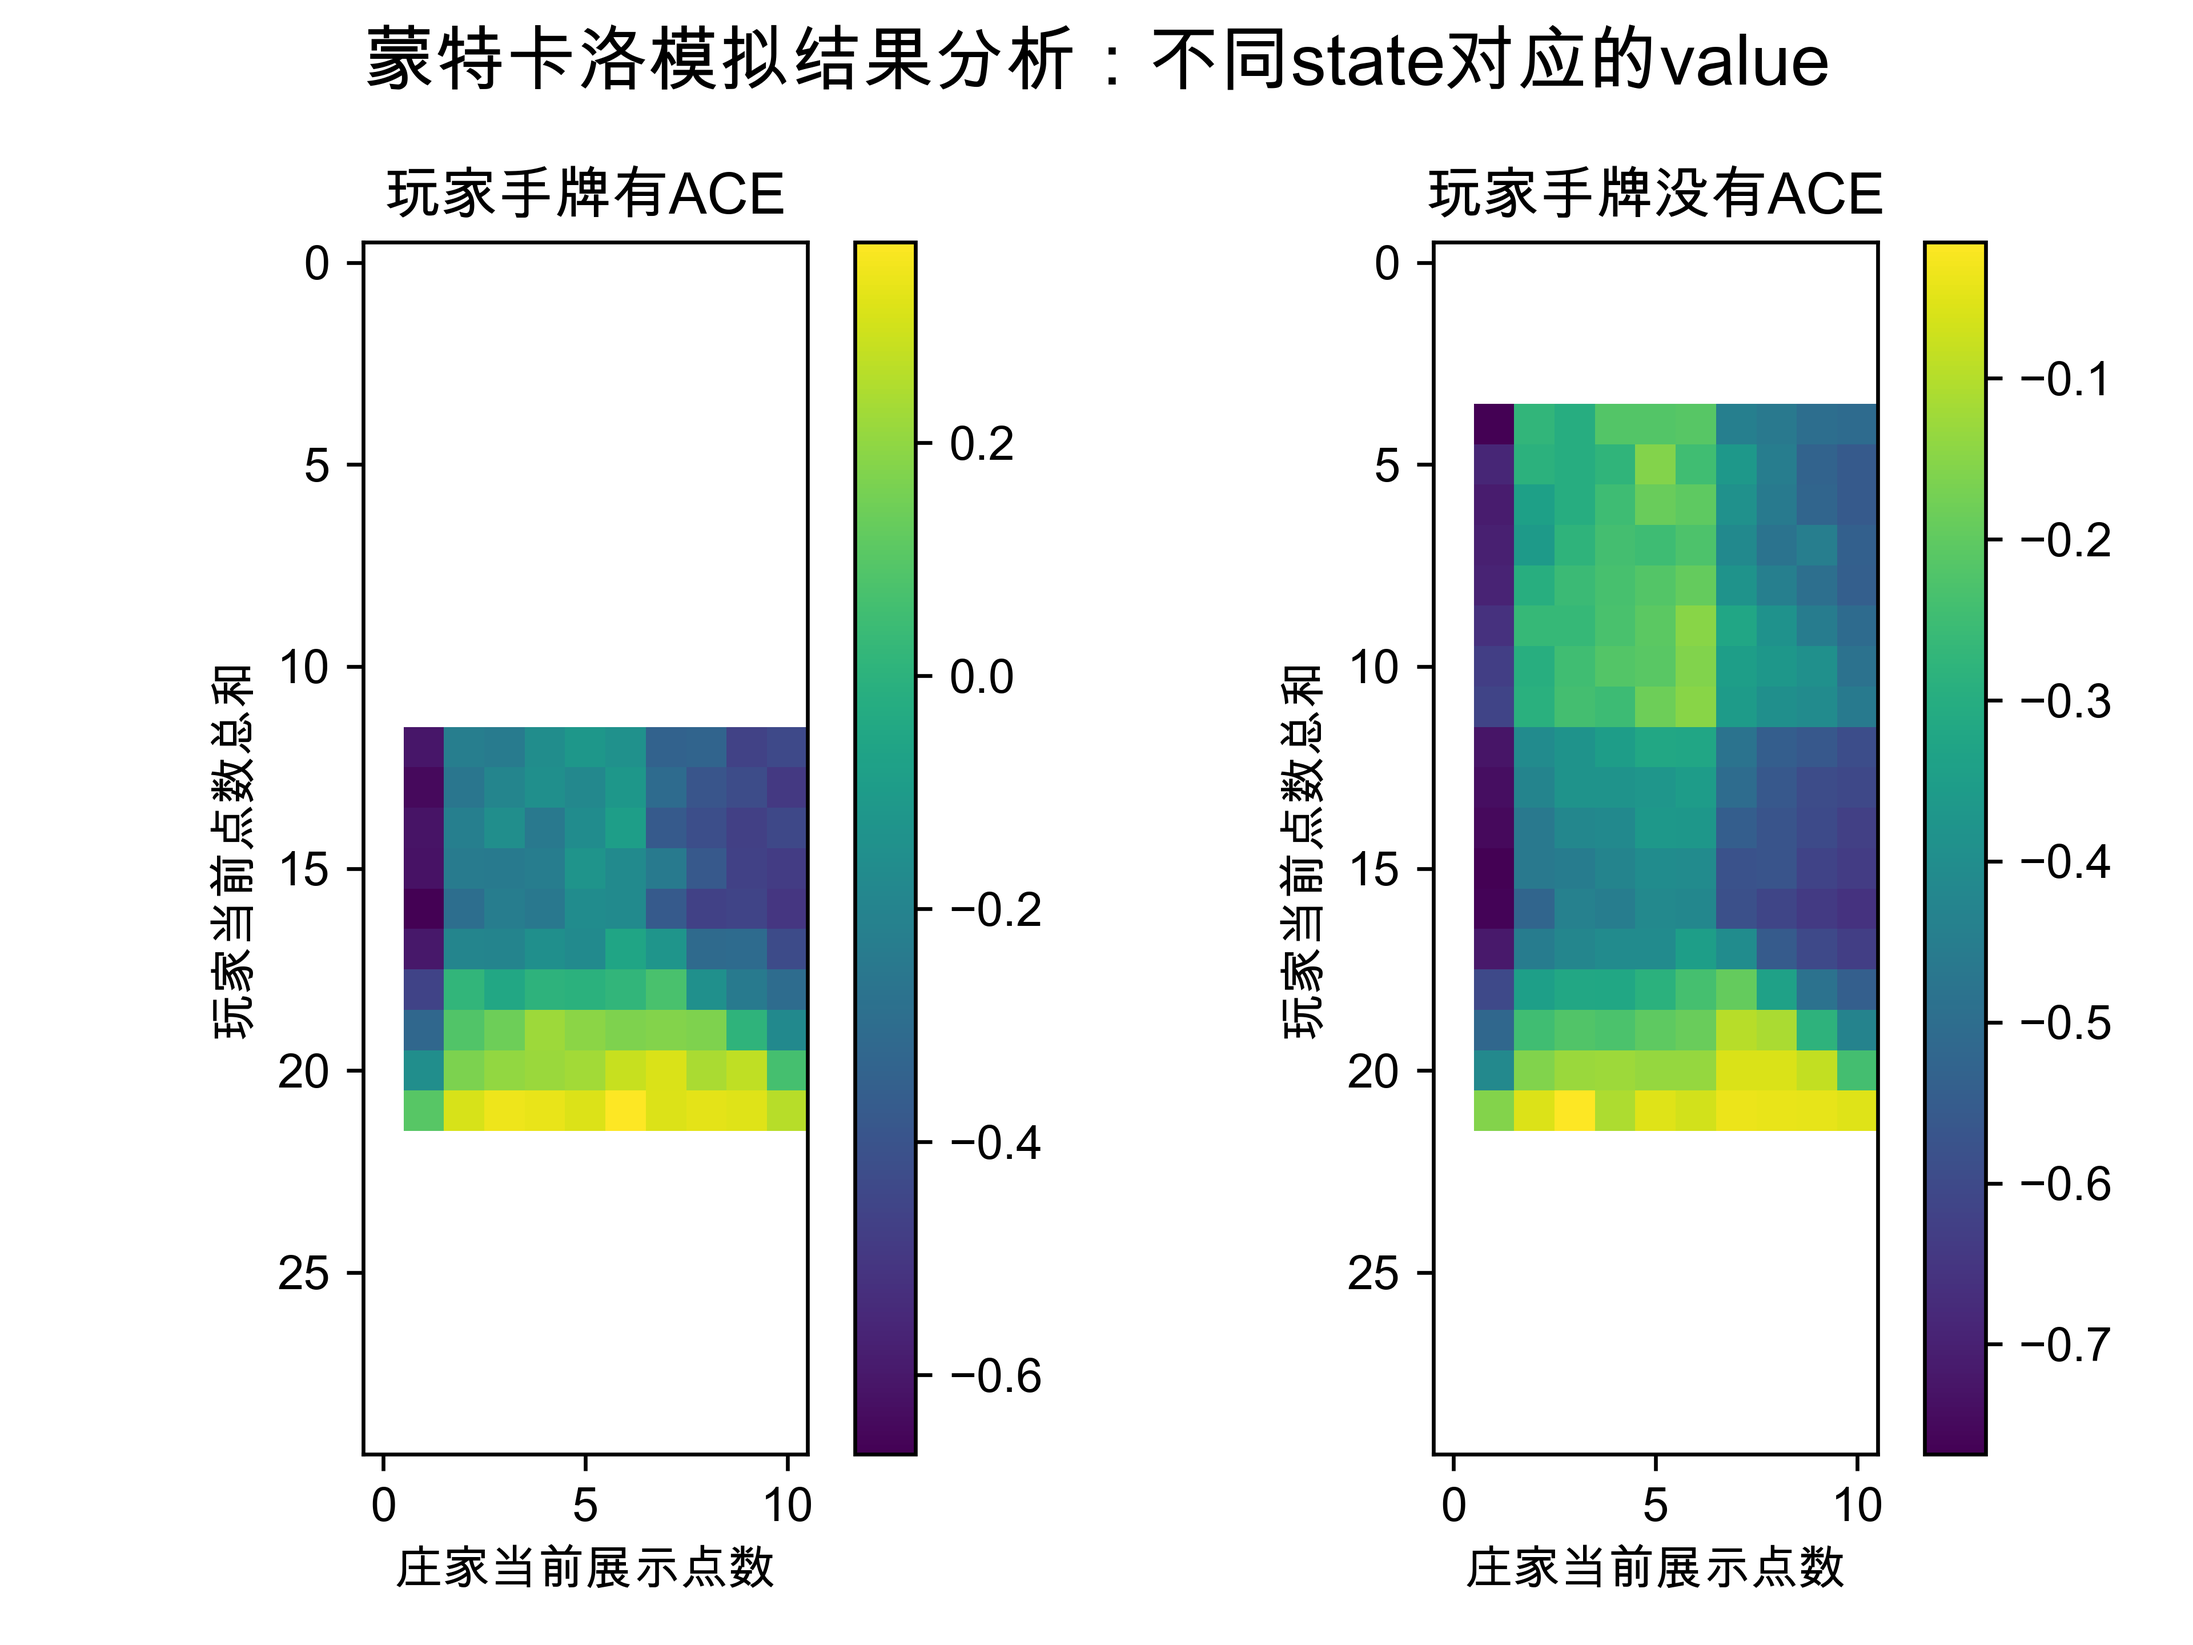
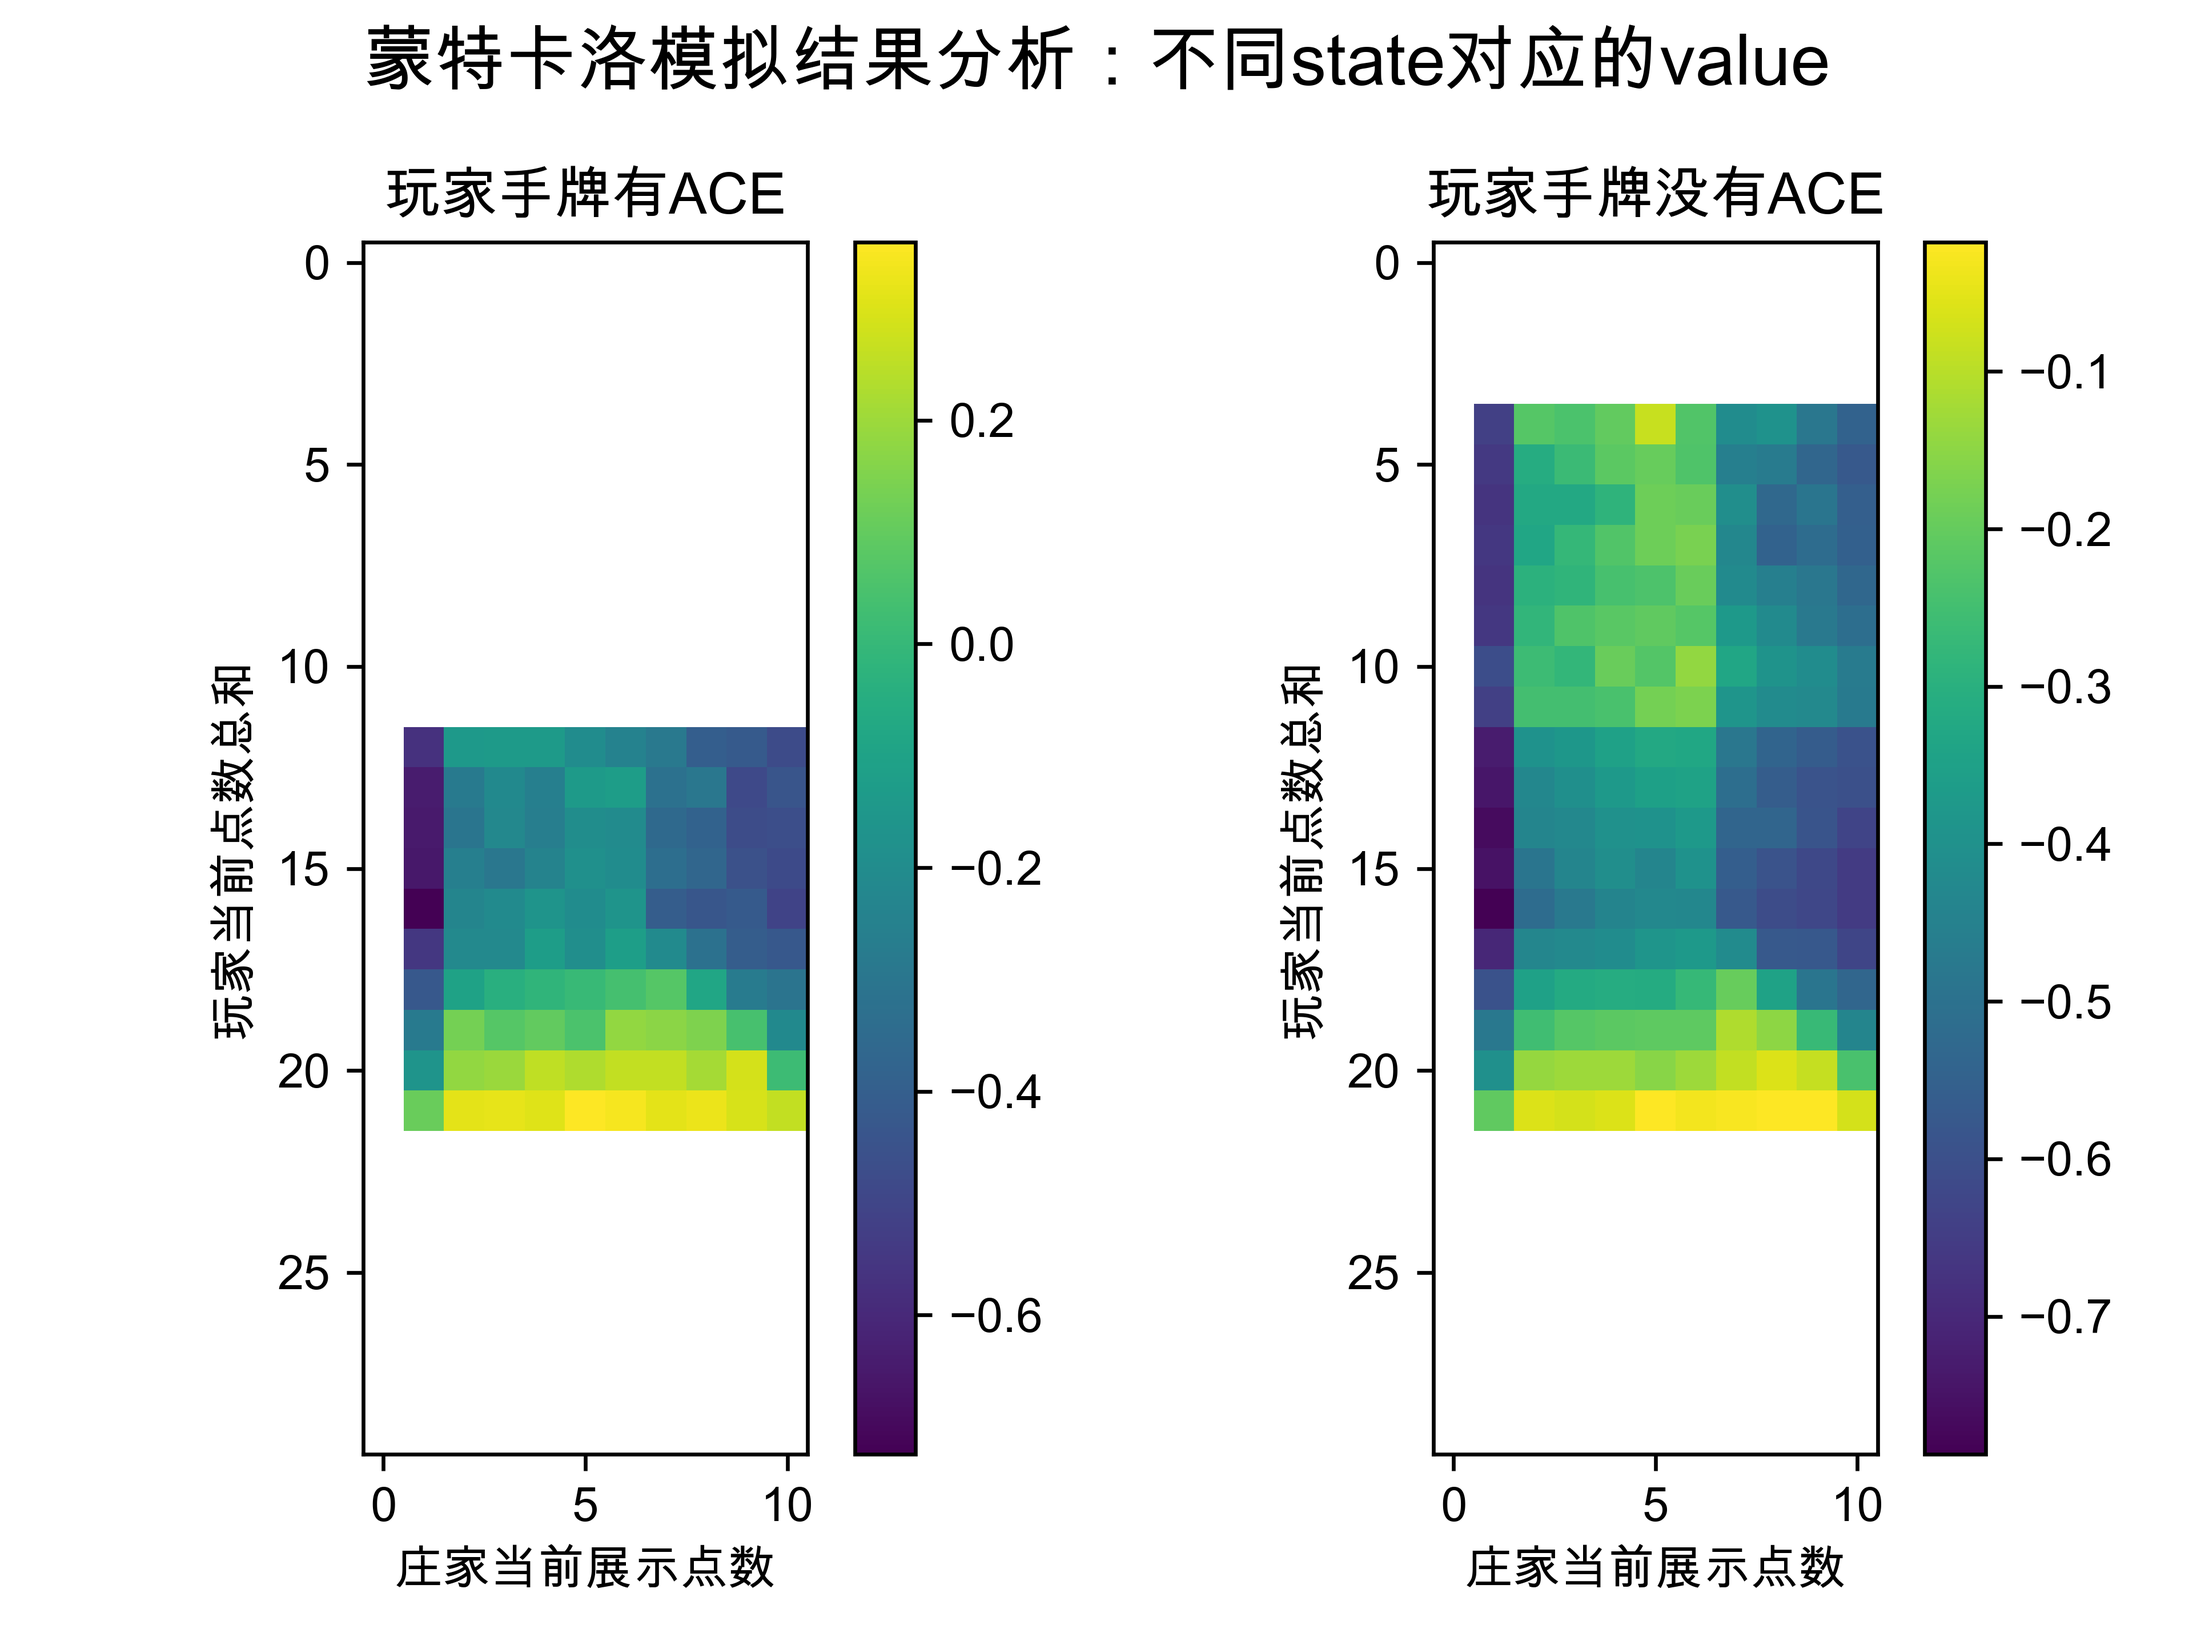
lecture01-part02-blackjack_online

diff --git a/src/lecture_01/part_02/blackjack_online.py b/src/lecture_01/part_02/blackjack_online.py
@@ -1,4 +1,118 @@
 # -*- coding: utf-8 -*- 
 # @Date : 2023/2/18
 # @Author : YEY
-# @File : blackjack_online.py 
+# @File : blackjack_online.py
+
+import gymnasium as gym
+import matplotlib.pyplot as plt
+import numpy as np
+from tqdm import tqdm
+from collections import defaultdict
+from utils.my_decorators import dividing_line
+from utils.my_decorators import plt_support_cn
+from utils.my_decorators import ignore_np_bool8_warning
+from utils.my_path_utils import get_out_file_path
+
+
+class BlackJackGame:
+    def __init__(self, env=None, episode=1000, gamma=0.9, epsilon=0.1):
+        self.trajectories = None
+        self.win_or_loss = None
+        self.win_rate = None
+        self.state_value_table = None
+        self.return_state_action = None
+        self.q_table = None
+        self.policy = None
+        self.env = env
+        self.episode = episode
+        self.gamma = gamma
+        self.epsilon = epsilon
+        self._create_environment()
+
+    def _create_environment(self):
+        if not self.env:
+            self.env = gym.make('Blackjack-v1', natural=False, sab=False, render_mode='rgb_array')
+        self.env.reset()
+
+    def monte_carlo_simulation_with_online_policy(self):
+        self.return_state_action = defaultdict(list)
+        self.q_table = defaultdict(lambda: [0, 0.])
+        self.policy = defaultdict(lambda: [0, 0.])
+
+        trajectories = []
+        win_or_loss = []
+        for _ in tqdm(range(self.episode)):
+            state, info = self.env.reset()
+            trajectory = []
+            state_action_set = set()
+
+            # 根据初始policy生成一个trajectory的(s,a,r)序列
+            while True:
+                action = np.argmax(self.policy[state])
+                state_action_set.add((state, action))
+                next_state, reward, terminated, truncated, _ = self.env.step(action)
+                trajectory.append((state, action, reward))
+                state = next_state
+                if terminated or truncated:
+                    win_or_loss.append(True if reward > 0 else False)
+                    trajectories.append(trajectory)
+                    break
+
+            # 每轮episode都会更新policy
+            value = 0
+            for i, (s, a, r) in enumerate(trajectory[::-1]):
+                value = self.gamma * value + r
+                if (s, a) not in state_action_set:
+                    self.return_state_action[(s, a)].append(value)
+                    self.q_table[s][a] = float(np.mean(self.return_state_action[(s, a)]))
+                    a_star = np.argmax(self.q_table[s])
+                    action_set = set(range(len(self.policy[s])))
+                    for act in action_set:
+                        if act == a_star:
+                            self.policy[s][act] = 1 - self.epsilon + self.epsilon / len(action_set)
+                        else:
+                            self.policy[s][act] = self.epsilon / len(action_set)
+
+        self.trajectories = trajectories
+        self.win_or_loss = win_or_loss
+        self.win_rate = sum(int(w) for w in self.win_or_loss) / len(self.win_or_loss)
+
+
+class Task:
+    @staticmethod
+    @ignore_np_bool8_warning
+    @dividing_line('蒙特卡洛基于在线策略模拟试验')
+    def monte_carlo_simulation_with_online_policy_test():
+        env = gym.make('Blackjack-v1', natural=False, sab=False, render_mode='rgb_array')
+        episode = 500000
+        game = BlackJackGame(env=env, episode=episode)
+        game.monte_carlo_simulation_with_online_policy()
+        print('玩家胜率为: {}'.format(game.win_rate))
+        game.env.close()
+
+    @staticmethod
+    @ignore_np_bool8_warning
+    @plt_support_cn
+    @dividing_line('不同episode下的平均胜率分析')
+    def different_episode_analysis_test():
+        episodes = np.arange(5000, 505000, 5000)
+        win_rates = []
+        for e in episodes:
+            env = gym.make('Blackjack-v1', natural=False, sab=False, render_mode='rgb_array')
+            game = BlackJackGame(env=env, episode=e)
+            game.monte_carlo_simulation_with_online_policy()
+            win_rates.append(game.win_rate)
+            game.env.close()
+
+        fig_name = '玩家胜率随着episode的变化趋势'
+        plt.figure(figsize=(10, 6))
+        plt.title(fig_name)
+        plt.plot(episodes, win_rates, 'o-')
+        out_file_path = get_out_file_path(fig_name + '.png')
+        plt.savefig(out_file_path, dpi=600)
+        plt.show()
+
+
+if __name__ == '__main__':
+    Task.monte_carlo_simulation_with_online_policy_test()
+    Task.different_episode_analysis_test()
